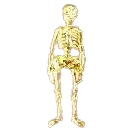
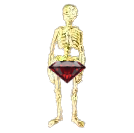
fix squelette

Changed region(s): [[0.3582, 0.4511, 0.6567, 0.6316]]

diff --git a/index.html b/index.html
@@ -1507,21 +1507,6 @@
             </td>
           </tr>
           <tr>
-            <td>Squelette</td>
-            <td>
-              <div>À l'envers : Amour de l’anatomie du sexe opposé</div>
-              <div>
-                À l’envers + pointe de diamant : Amour de l'anatomie du même
-                sexe
-              </div>
-              <div>À l’endroit : Amour de l’anatomie</div>
-            </td>
-            <td data-fal-insigne>
-              <img loading="lazy" width="100" height="100" src="/images/insigne/squelette.png" alt="Squelette" />
-              <img style="rotate: 180deg;" loading="lazy" width="100" height="100" src="/images/insigne/squelette.png" alt="Squelette" />
-            </td>
-          </tr>
-          <tr>
             <td colspan="3">
               <h5>Les insignes décernés par le/la partenaire</h5>
             </td>
